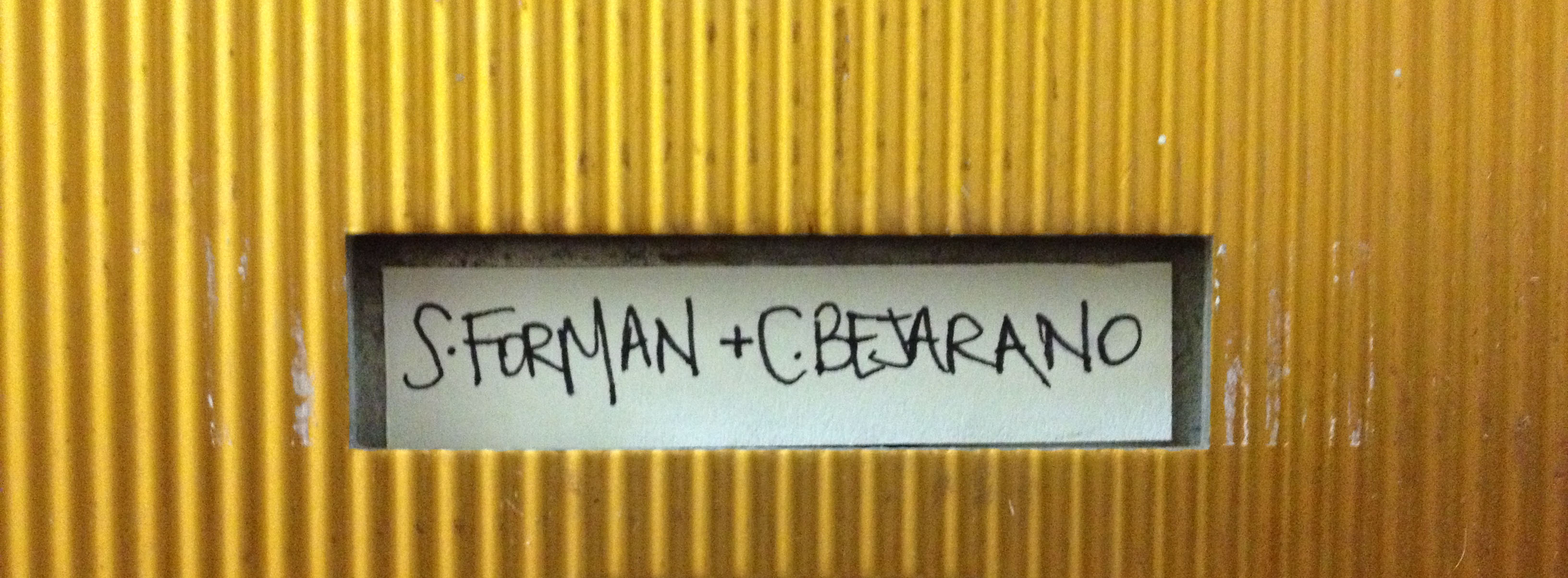
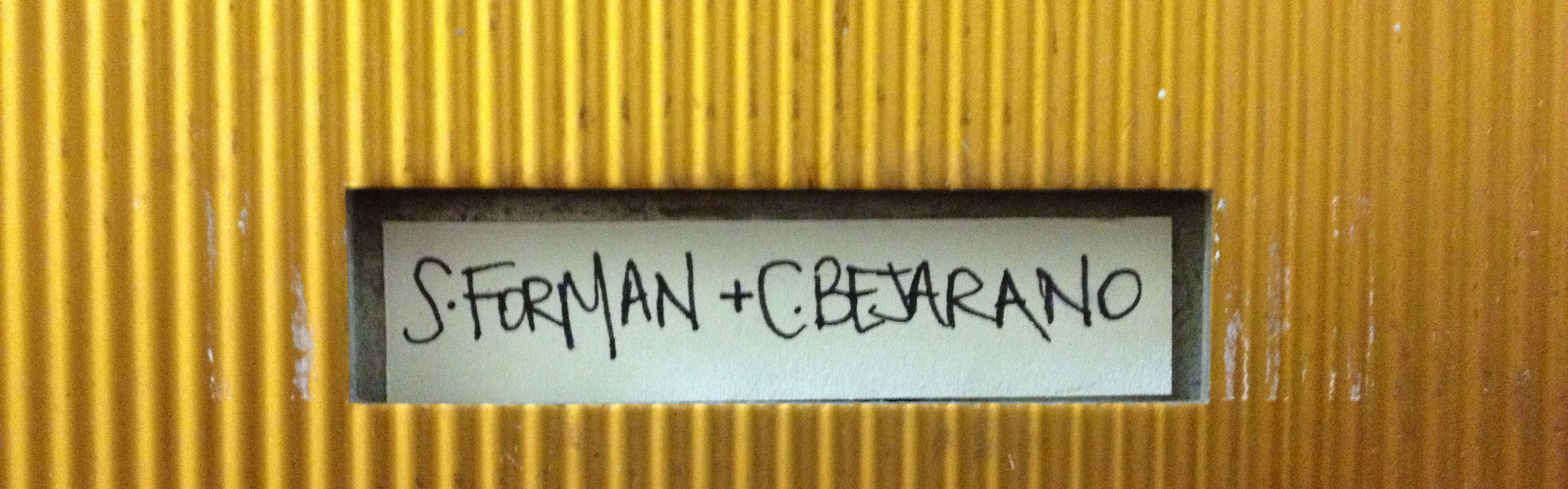
Added map. Minor adjustments to css and text.

diff --git a/where-to-stay.html b/where-to-stay.html
@@ -25,28 +25,28 @@
 
     <body>
         <div class="span3 offset2 left-column">
-            <a href="./index.html"><IMG class="us-image-small img" src="assets/img/sf-cb.jpg"></a>
+            <a href="./index.html"><IMG class="us-image-small img" src="assets/img/mailbox_sidebar.jpg"></a>
             <p id="introtext">The <a href="https://maps.google.com/maps?q=metropolitan+building,+long+island+city,+queens&hl=en&safe=off&hnear=Metropolitan+Bldg,+Long+Island+City,+New+York+11101&gl=us&t=m&z=16">Metropolitan Building</a> is located in Long Island City, Queens. You can stay there, or in Brooklyn or Manhattan, in which case the E, M, 7, and G trains allow for easy access. </p>
             <p>We have a few hotel recommendations for each area on this page. Book now, or if you're feeling lucky, shoot for a last minute deal the week before. And don't forget about the AirBnB option - our preferred way to travel.</p>
             <p>Feel free to <a href="mailto:sjforman@gmail.com">ask us</a> directly for additional neighborhood and hotel advice.</p>
-            <p><a href="http://wwww.airbnb.com"><IMG class="img" src="assets/img/airbnb-logo.png"></a></p>
         </div>
 
-        <div class="span6 offset1" id="main-content">
+        <div class="span6" id="main-content">
+        <img id="hotel-map" class="img" src="assets/img/nycmap_hotels.jpg" alt="map of hotels, with stars at their locations"/>
           <h1>Brooklyn</h1>
-            <h5><a href="https://www.airbnb.com/s/Carroll-Gardens--Boerum-Hill--Brooklyn--NY?checkin=06%2F07%2F2013&checkout=06%2F09%2F2013&guests=2&room_types%5B%5D=Entire+home%2Fapt&search_by_map=true&search_view=2&neighborhoods%5B%5D=Park+Slope&neighborhoods%5B%5D=Carroll+Gardens&neighborhoods%5B%5D=Gowanus&neighborhoods%5B%5D=Boerum+Hill&sw_lat=40.66282751797371&sw_lng=-74.00735839697268&ne_lat=40.69250992590917&ne_lng=-73.96821960302736">AirBnB search</a></h5>
+            <h5><a href="https://www.airbnb.com/s/Carroll-Gardens--Boerum-Hill--Brooklyn--NY?checkin=06%2F07%2F2013&checkout=06%2F09%2F2013&guests=2&room_types%5B%5D=Entire+home%2Fapt&search_by_map=true&search_view=2&neighborhoods%5B%5D=Park+Slope&neighborhoods%5B%5D=Carroll+Gardens&neighborhoods%5B%5D=Gowanus&neighborhoods%5B%5D=Boerum+Hill&sw_lat=40.66282751797371&sw_lng=-74.00735839697268&ne_lat=40.69250992590917&ne_lng=-73.96821960302736">Check AirBnB listings in Brooklyn</a></h5>
             <a href="http://nuhotelbrooklyn.com/"><h4>Nu Hotel</h4></a>
             <p>The NU Hotel is a 93 room boutique <a href="https://maps.google.com/maps?q=nu+hotel&hl=en&ll=40.689945,-73.986332&spn=0.011113,0.020664&safe=off&fb=1&gl=us&hq=nu+hotel&hnear=0x89c24fa5d33f083b:0xc80b8f06e177fe62,New+York,+NY&cid=0,0,5721574405897145900&t=m&z=16">in Downtown Brooklyn, on Smith St just north of Atlantic Ave.</a>  It's a few blocks from the Hoyt-Schermerhorn stop (A, C, and G trains).</p>
             <a href="http://www.hotellebleu.com/"><h4>Hotel Le Bleu</h4></a>
             <p>Hotel Le Bleu is a 48 room hotel on <a href="https://maps.google.com/maps?q=hotel+le+bleu&hl=en&ll=40.674178,-73.987577&spn=0.011115,0.020664&safe=off&fb=1&gl=us&hq=hotel+le+bleu&hnear=0x89c24fa5d33f083b:0xc80b8f06e177fe62,New+York,+NY&cid=0,0,12472848479479202458&t=m&z=16">4th Ave in Park Slope</a>. It's a pretty short walk from the 4 Ave F/G stop, and the 9th St stop on the R train. We live a few blocks away.</p>
           <h1>Manhattan</h1>
-            <h5><a href="https://www.airbnb.com/s/Manhattan--New-York--NY?checkin=06%2F07%2F2013&checkout=06%2F09%2F2013&guests=2&room_types%5B%5D=Entire+home%2Fapt&search_by_map=true&search_view=2&neighborhoods%5B%5D=Midtown&neighborhoods%5B%5D=East+Village&neighborhoods%5B%5D=Chelsea&neighborhoods%5B%5D=Flatiron+District&neighborhoods%5B%5D=Gramercy+Park&neighborhoods%5B%5D=Midtown+East&neighborhoods%5B%5D=Murray+Hill&neighborhoods%5B%5D=Times+Square%2FTheatre+District&sw_lat=40.68254241980272&sw_lng=-74.076156609375&ne_lat=40.8011576216086&ne_lng=-73.91960143359375">AirBnB search</a></h5>
+            <h5><a href="https://www.airbnb.com/s/Manhattan--New-York--NY?checkin=06%2F07%2F2013&checkout=06%2F09%2F2013&guests=2&room_types%5B%5D=Entire+home%2Fapt&search_by_map=true&search_view=2&neighborhoods%5B%5D=Midtown&neighborhoods%5B%5D=East+Village&neighborhoods%5B%5D=Chelsea&neighborhoods%5B%5D=Flatiron+District&neighborhoods%5B%5D=Gramercy+Park&neighborhoods%5B%5D=Midtown+East&neighborhoods%5B%5D=Murray+Hill&neighborhoods%5B%5D=Times+Square%2FTheatre+District&sw_lat=40.68254241980272&sw_lng=-74.076156609375&ne_lat=40.8011576216086&ne_lng=-73.91960143359375">Check AirBnB listings in Manhattan</a></h5>
             <a href="http://www.gershwinhotel.com/"><h4>Gershwin Hotel</h4></a>
             <p>Located on <a href="https://maps.google.com/maps?q=gershwin+hotel&hl=en&ll=40.744851,-73.987749&spn=0.011103,0.020664&safe=off&fb=1&gl=us&hq=gershwin+hotel&hnear=0x89c24fa5d33f083b:0xc80b8f06e177fe62,New+York,+NY&cid=0,0,8416409304439600885&t=m&z=16">27th St between Fifth Ave and Madison</a>, convenient to the F, M, N, R, 6, and 1 trains.</p>
           <h1>Queens</h1>
-            <h5><a href="https://www.airbnb.com/s/Long-Island-City--Queens--NY?checkin=06%2F07%2F2013&checkout=06%2F09%2F2013&guests=2&room_types%5B%5D=Entire+home%2Fapt&sw_lat=40.73628415758862&sw_lng=-73.96220804864498&ne_lat=40.75111065247397&ne_lng=-73.94263865167233&search_by_map=true&search_view=2">AirBnB search</a></h5>
+            <h5><a href="https://www.airbnb.com/s/Long-Island-City--Queens--NY?checkin=06%2F07%2F2013&checkout=06%2F09%2F2013&guests=2&room_types%5B%5D=Entire+home%2Fapt&sw_lat=40.73628415758862&sw_lng=-73.96220804864498&ne_lat=40.75111065247397&ne_lng=-73.94263865167233&search_by_map=true&search_view=2">Check AirBnB listings in Long Island City</a></h5>
             <a href="http://www.zhotelny.com/"><h4>Z Hotel New York</h4></a>
-            <p>A 3 minute walk from the Metropolitan Building on <a href="https://maps.google.com/maps?q=Z+Hotel+New+York&hl=en&ll=40.752881,-73.947515&spn=0.011102,0.020664&cid=10572490782920095931&gl=US&t=m&z=16&iwloc=A">43rd Ave in Long Island City</a>, this is a new-ish 100 room boutique hotel. We don't have first-hand knowledge, but from the reviews on TripAdvisor, it sounds like a good choice. There is a room block here as well, with 9 Queen rooms and 1 King room reserved through May 3, for $180 and $205/night, respectively.</p>
+            <p>A 3 minute walk from the Metropolitan Building on <a href="https://maps.google.com/maps?q=Z+Hotel+New+York&hl=en&ll=40.752881,-73.947515&spn=0.011102,0.020664&cid=10572490782920095931&gl=US&t=m&z=16&iwloc=A">43rd Ave in Long Island City</a>, this is a new-ish 100 room boutique hotel. We don't have first-hand knowledge, but from the reviews on TripAdvisor, it sounds like a good choice. There is a room block here, with 9 Queen rooms and 1 King room reserved through May 3, for $180 and $205/night, respectively.</p>
         </div>
 
     </div>

diff --git a/assets/css/weddingsite.css b/assets/css/weddingsite.css
@@ -2,7 +2,7 @@ IMG.banner-image {
     display: block;
     margin-left: auto;
     margin-right: auto;
-    margin-top: 5px;
+    margin-top: 30px;
 } 
 
 IMG.us-image {
